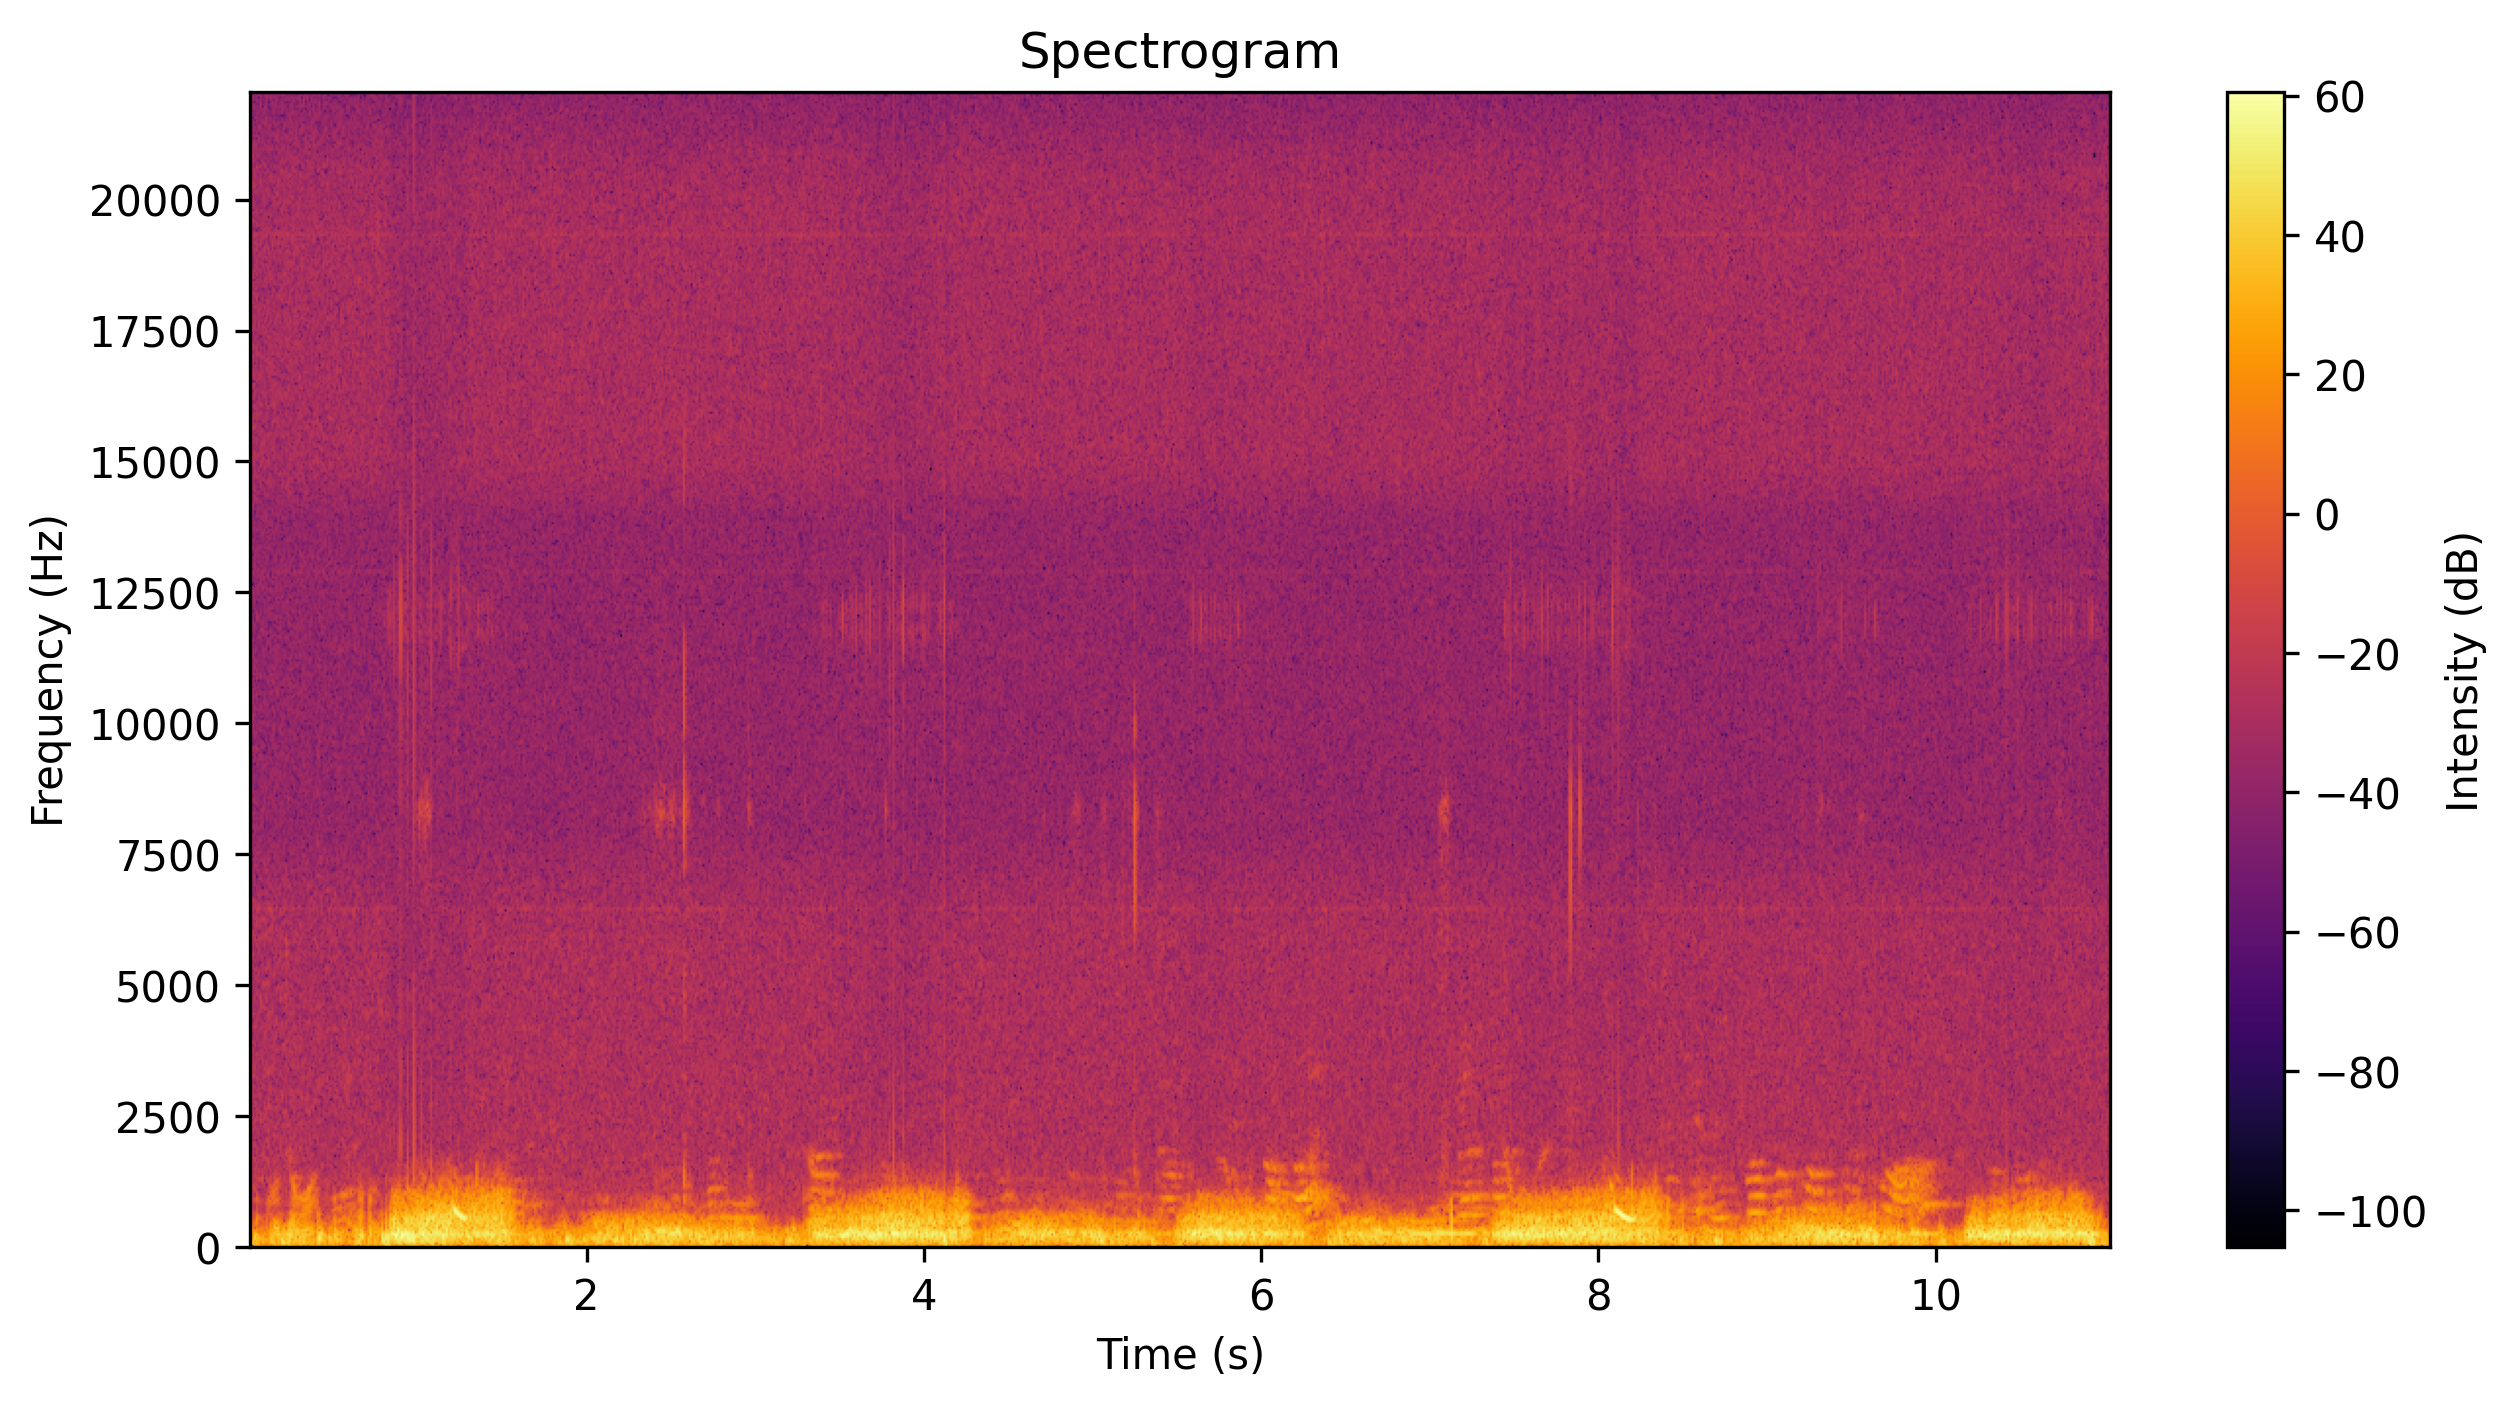
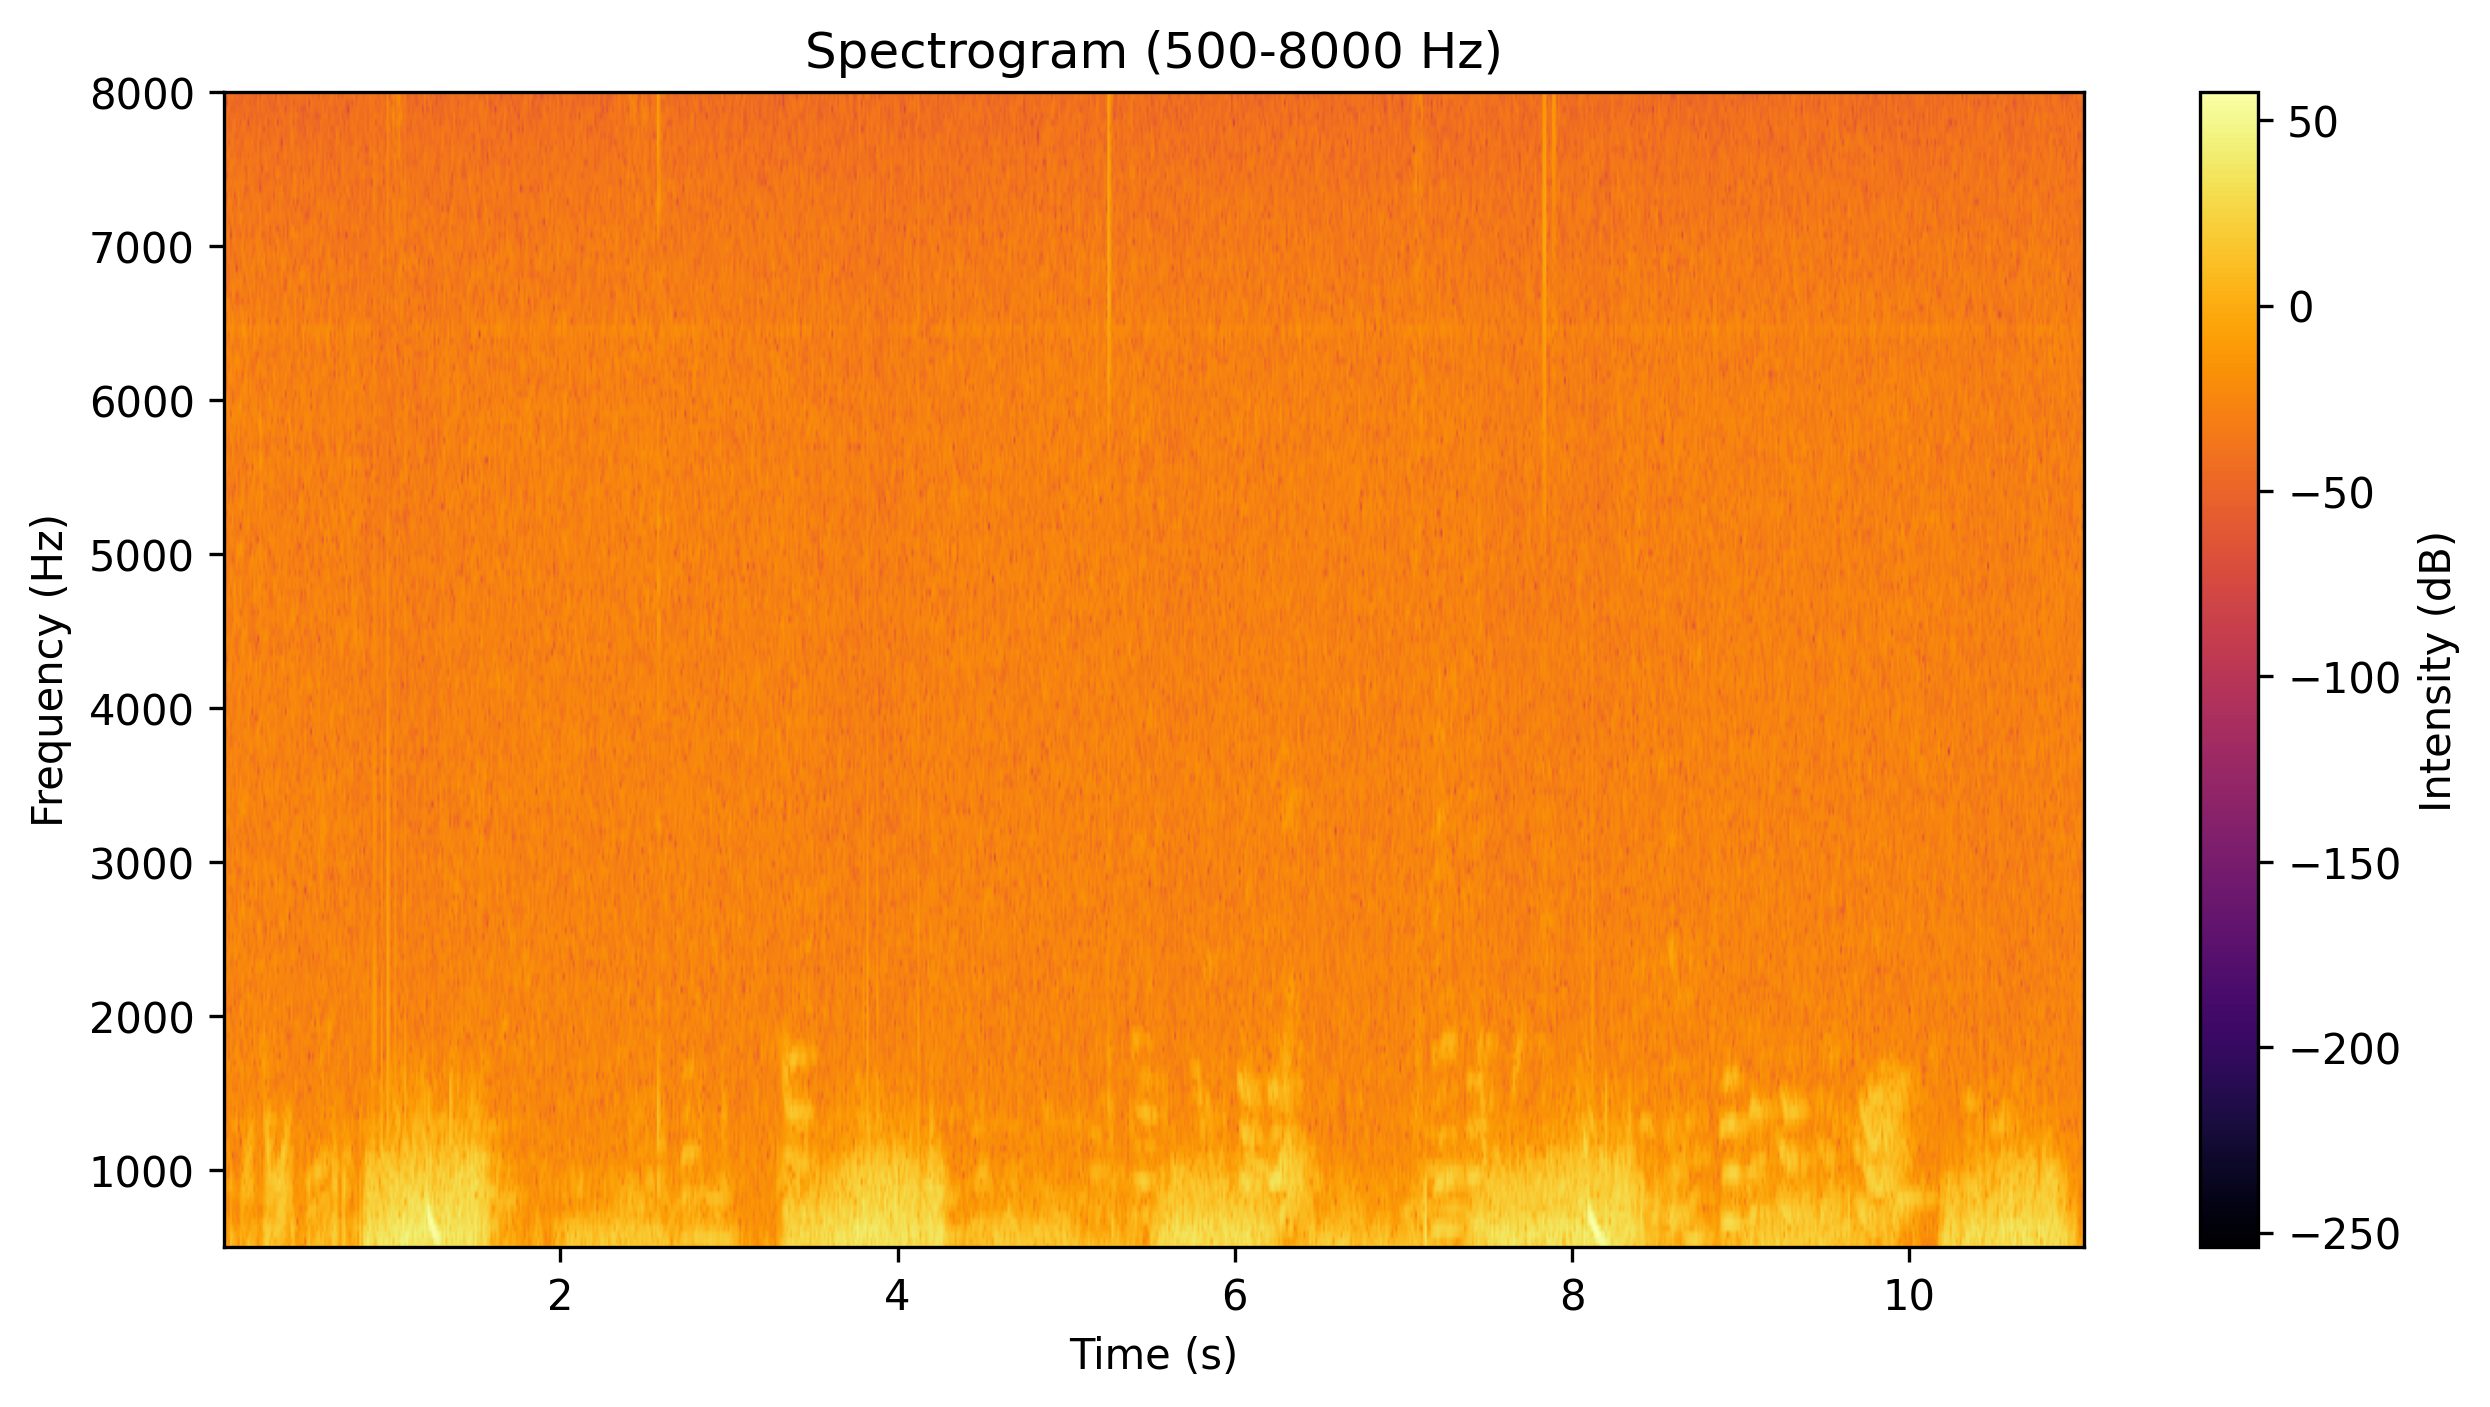
low/high pass

diff --git a/main.py b/main.py
@@ -1,26 +1,40 @@
 import numpy as np
 import matplotlib.pyplot as plt
 import scipy.io.wavfile as wav
+from scipy.signal import butter, filtfilt
 
-def save_spectrogram_image(wav_file, output_image):
-    # Read WAV file
+def bandpass_filter(data, sample_rate, lowcut=0, highcut=10000, order=5):
+    nyquist = 0.5 * sample_rate
+    low = lowcut / nyquist
+    high = highcut / nyquist
+
+    if lowcut == 0:
+        b, a = butter(order, high, btype='low')
+    elif highcut >= nyquist:
+        b, a = butter(order, low, btype='high')
+    else:
+        b, a = butter(order, [low, high], btype='band')
+
+    return filtfilt(b, a, data)
+
+def save_spectrogram_image(wav_file, output_image, lowcut=0, highcut=10000):
     sample_rate, data = wav.read(wav_file)
 
-    # Convert to mono if stereo
     if len(data.shape) > 1:
         data = np.mean(data, axis=1)
 
-    # Create the spectrogram
+    filtered_data = bandpass_filter(data, sample_rate, lowcut, highcut)
+
     plt.figure(figsize=(10, 5))
-    plt.specgram(data, NFFT=1024, Fs=sample_rate, cmap='inferno', noverlap=512)
+    _, _, _, im = plt.specgram(filtered_data, NFFT=1024, Fs=sample_rate, cmap='inferno', noverlap=512)
+
+    plt.ylim(lowcut, highcut)
     plt.xlabel('Time (s)')
     plt.ylabel('Frequency (Hz)')
-    plt.title('Spectrogram')
-    plt.colorbar(label='Intensity (dB)')
+    plt.title(f'Spectrogram ({lowcut}-{highcut} Hz)')
+    plt.colorbar(im, label='Intensity (dB)')
 
-    # Save the figure instead of displaying it
     plt.savefig(output_image, dpi=300, bbox_inches='tight')
     plt.close()
 
-# Example usage
-save_spectrogram_image('record.wav', 'spectrogram.png')
+save_spectrogram_image('record.wav', 'spectrogram.png', lowcut=500, highcut=8000)
